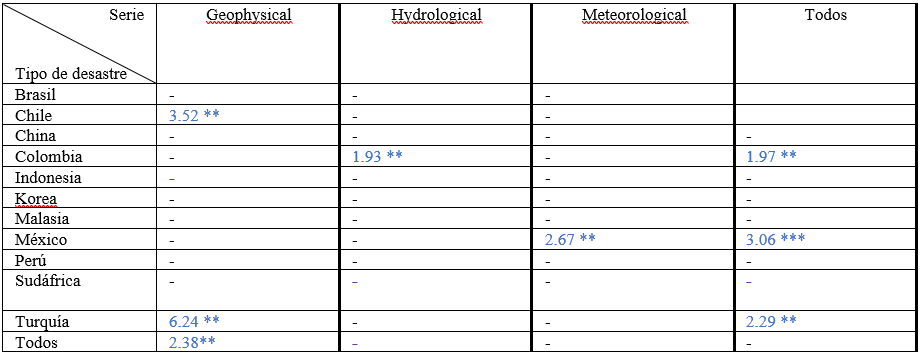
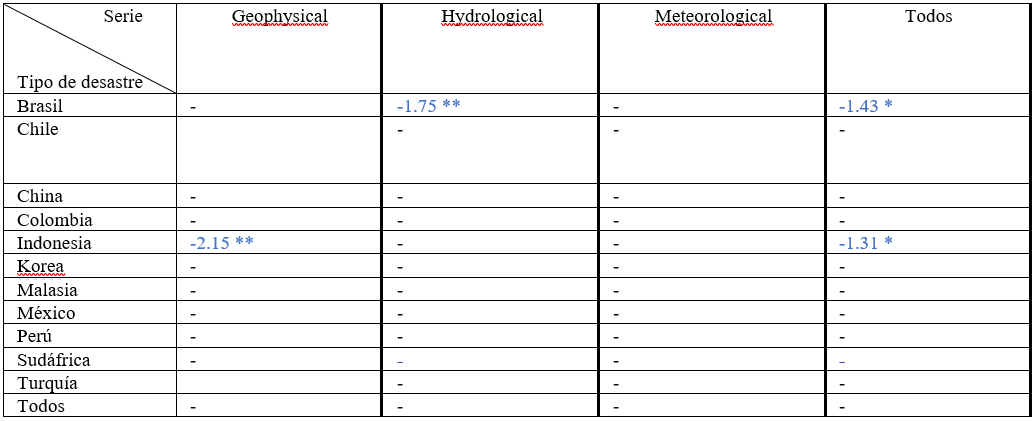
Arreglo tablas latex

Changed region(s): [[0.0, 0.0, 1.0, 1.0], [0.1518, 0.338, 0.1822, 0.3687], [0.0607, 0.0922, 0.0911, 0.1229]]

diff --git a/Graficos_Paper/Tablas/Final/Varianza_Stocks.tex b/Graficos_Paper/Tablas/Final/Varianza_Stocks.tex
@@ -1,0 +1,16 @@
+\begin{tabular}{lllll}
+\hline
+Country \textbackslash Type of disaster & Geophysical & Hydrological & Meteorological & All \\ \hline
+Brazil & - & 4.919 *** & - & 4.21 *** \\
+Chile & - & - & - & 7.82 ** \\
+China & 11.16 *** & - & - & 3.66 *** \\
+Colombia & - & - & - & - \\
+Indonesia & - & - & - & - \\
+Korea & - & - & - & 27.71 *** \\
+Malaysia & - & - & - & - \\
+Mexico & - & 15.81 *** & 15.96 *** & 9.70 *** \\
+Peru & - & - & - & - \\
+South Africa & - & - & - & - \\
+Turkey & - & - & - & - \\
+All & 3.31 ** & - & 6.54 *** & 1.94 *** \\ \hline
+\end{tabular}

diff --git a/Graficos_Paper/Tablas/Final/Varianza_CDS.tex b/Graficos_Paper/Tablas/Final/Varianza_CDS.tex
@@ -1,0 +1,16 @@
+\begin{tabular}{lllll}
+\hline
+Country \textbackslash Type of disaster & Geophysical & Hydrological & Meteorological & All \\ \hline
+Brazil & - & - & - & - \\
+Chile & 13.22 * & 153.85 *** & - & 92.99 *** \\
+China & 25.44 * & - & 13.28 ** & 14.08 ** \\
+Colombia & - & - & - & - \\
+Indonesia & - & - & - & - \\
+Korea & - & - & - & - \\
+Malaysia & - & - & - & - \\
+Mexico & - & 11.34 * & - & 4.90 * \\
+Peru & - & - & - & - \\
+South Africa & - & - & - & - \\
+Turkey & - & - & - & - \\
+All & - & 13.11 *** & 5.00 ** & 15.20 *** \\ \hline
+\end{tabular}

diff --git a/Graficos_Paper/Tablas/Final/Media_CDS.tex b/Graficos_Paper/Tablas/Final/Media_CDS.tex
@@ -1,0 +1,16 @@
+\begin{tabular}{lllll}
+\hline
+Type of disaster \textbackslash Series & Geophysical & Hydrological & Meteorological & All \\ \hline
+Brazil & - & - & - & - \\
+Chile & 3.52 ** & - & - & - \\
+China & - & - & - & - \\
+Colombia & - & 1.93 ** & - & 1.97 ** \\
+Indonesia & - & - & - & - \\
+Korea & - & - & - & - \\
+Malaysia & - & - & - & - \\
+Mexico & - & - & 2.67 ** & 3.06 *** \\
+Peru & - & - & - & - \\
+South Africa & - & - & - & - \\
+Turkey & 6.24 ** & - & - & 2.29 ** \\
+All & 2.38 ** & - & - & - \\ \hline
+\end{tabular}

diff --git a/Graficos_Paper/Tablas/Final/Media_Stocks.tex b/Graficos_Paper/Tablas/Final/Media_Stocks.tex
@@ -1,0 +1,16 @@
+\begin{tabular}{lllll}
+\hline
+Country \textbackslash Type of Disaster & Geophysical & Hydrological & Meteorological & All \\ \hline
+Brazil & - & - 1.75 ** & - & - 1.43 * \\
+Chile & - & - & - & - \\
+China & - & - & - & - \\
+Colombia & - & - & - & - \\
+Indonesia & - 2.15 ** & - & - & - 1.31 * \\
+Korea & - & - & - & - \\
+Malaysia & - & - & - & - \\
+Mexico & - & - & - & - \\
+Peru & - & - & - & - \\
+South Africa & - & - & - & - \\
+Turkey & - & - & - & - \\
+All & - & - & - & - \\ \hline
+\end{tabular}

diff --git a/Graficos_Paper/Tablas/Final/Varianza.tex b/Graficos_Paper/Tablas/Final/Varianza.tex
@@ -1,0 +1,8 @@
+\begin{tabular}{lll}
+\toprule
+Type of disaster \textbackslash Series & CDS & Stock Index - MSCI \\ \midrule
+Geophysical & - & 3.31 ** \\
+Hydrological & 13.11 *** & - \\
+Meteorological & 5.00 ** & 6.54 *** \\
+All & 15.20 *** & 1.94 *** \\ \bottomrule
+\end{tabular}

diff --git a/Graficos_Paper/Tablas/Final/Final_Media.tex b/Graficos_Paper/Tablas/Final/Final_Media.tex
@@ -1,0 +1,8 @@
+\begin{tabular}{@{}lll@{}}
+\toprule
+Type of Disaster \textbackslash Series & CDS & Stock Index - MSCI \\ \midrule
+Geophysical & 2.38 ** & - \\
+Hydrological & - & - \\
+Meteorological & - & - \\
+All & - & - \\ \bottomrule
+\end{tabular}
